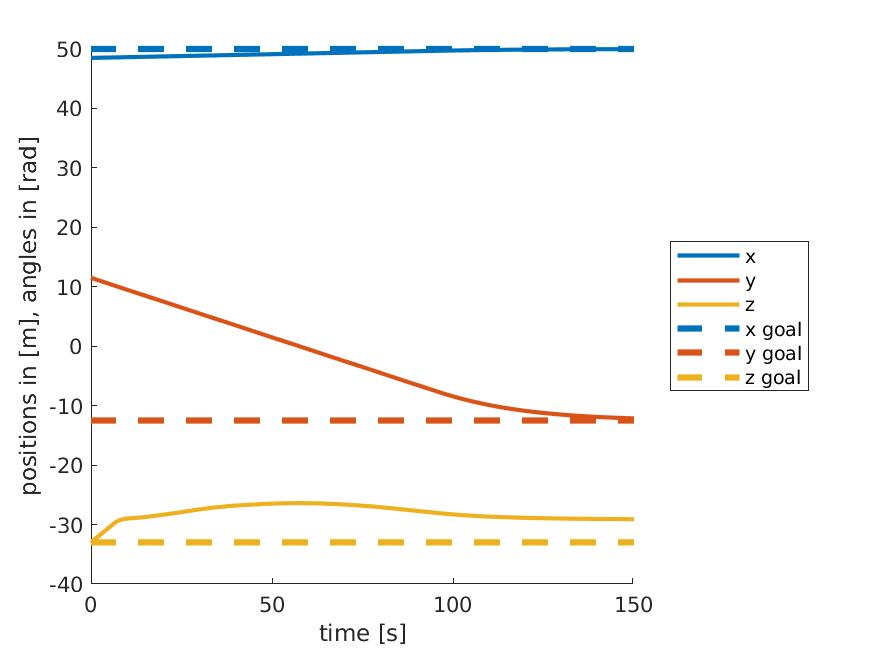
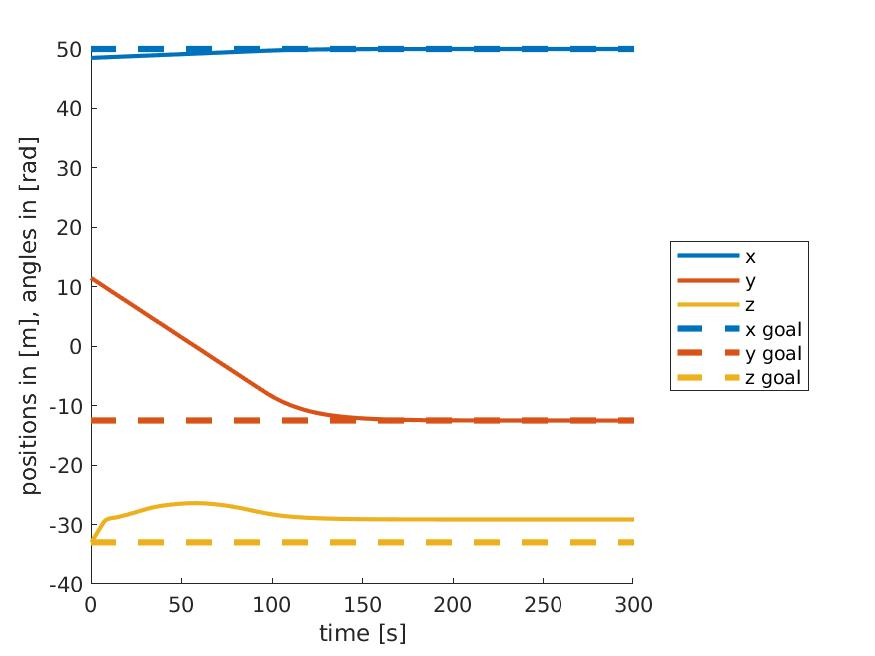
Increase simulation time

diff --git a/cooperative_robotics/MainRobust.m b/cooperative_robotics/MainRobust.m
@@ -7,7 +7,7 @@ close all
 
 % Simulation variables (integration and final time)
 deltat = 0.005;
-end_time = 150;
+end_time = 300;
 loop = 1;
 maxloops = ceil(end_time/deltat);
 
